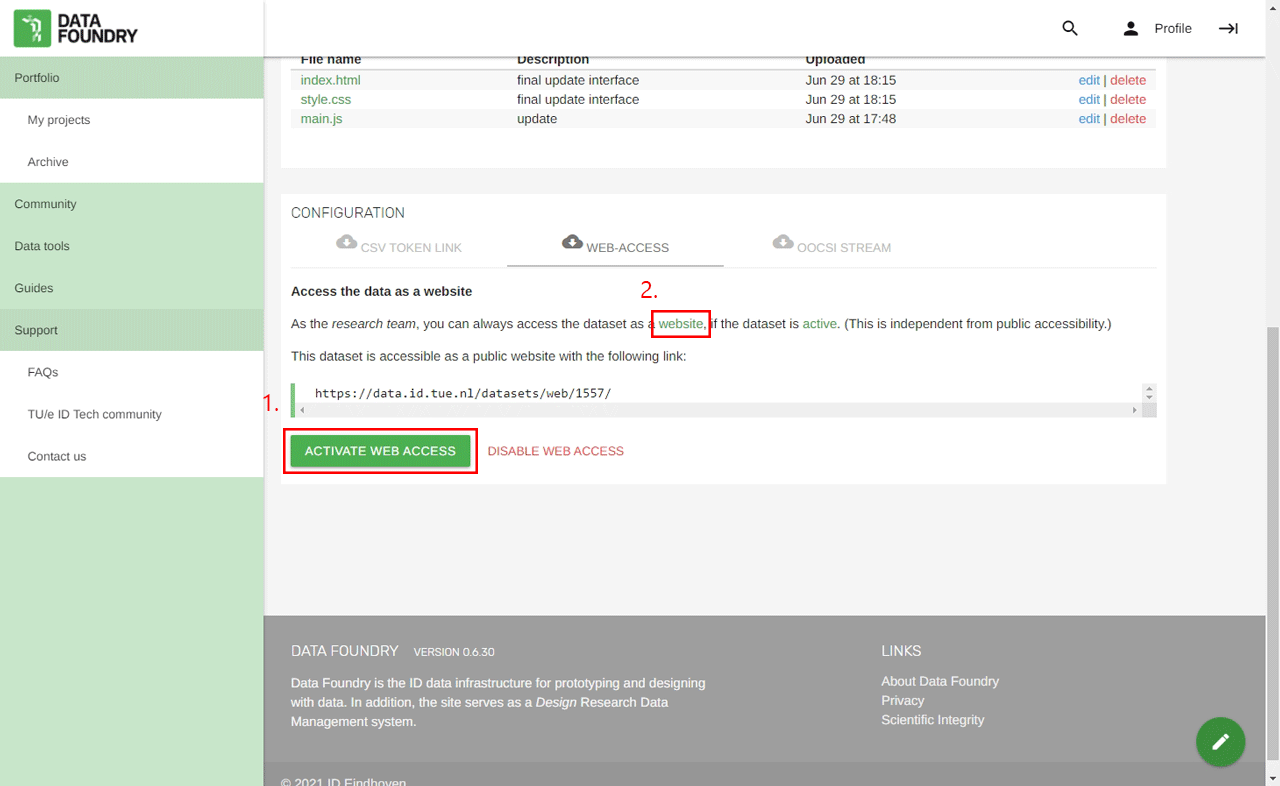
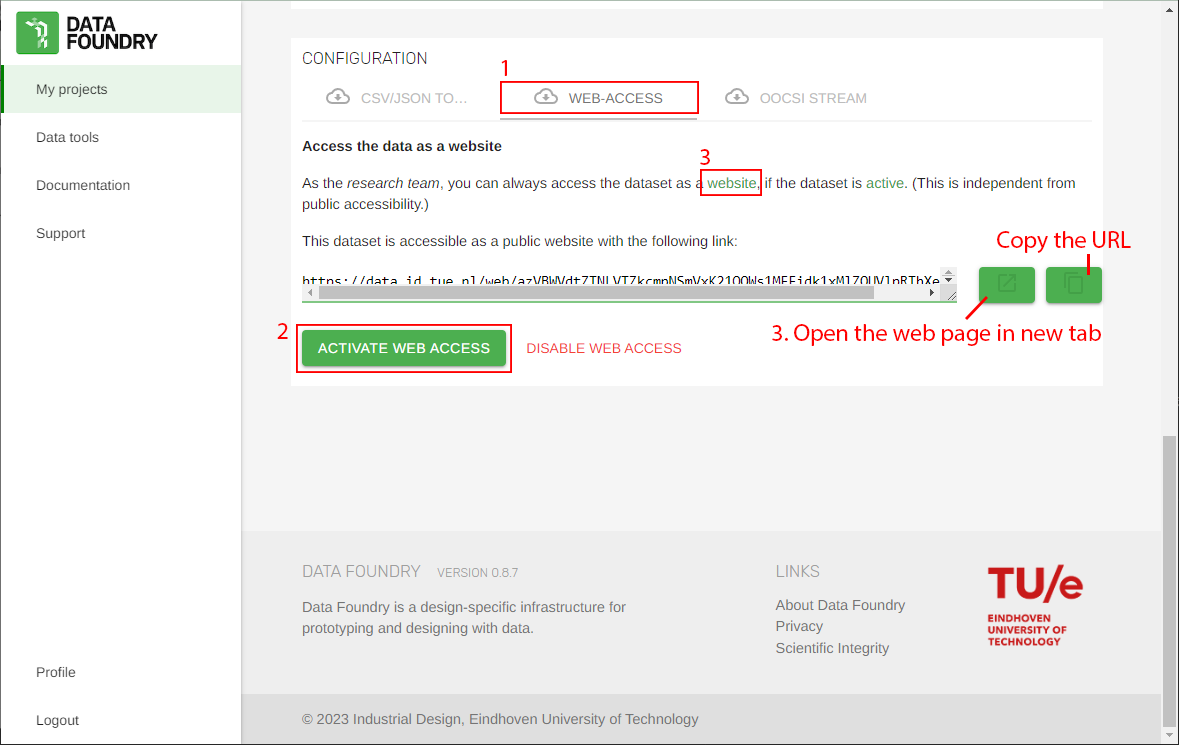
- renewed screenshots for example of hosting web page

diff --git a/examples/WWW_host_by_DF/README.md b/examples/WWW_host_by_DF/README.md
@@ -25,8 +25,8 @@ In this case, I simply host web pages with a Complete dataset of Data Foundry.
         - Second, check the content of the web site.
         ![](images/ds-after-uploading-after.png)
     - For hosting the project web page,
-        - The link of the project web page will show up right next to the project name with smaller green text of "PROJECT WEBSITE"
-        ![](images/project_page_with_text.JPG)
+        - The button for the project web page will show up right next to the "TIMELINE" button on the navigation bar with a button named "PROJECT SITE"
+        ![](images/URL_of_project_home_page.png)
 5. The web site would be like this after clicking the "JavaScript test!!" button.
 ![](images/webpage-2.png)
 
